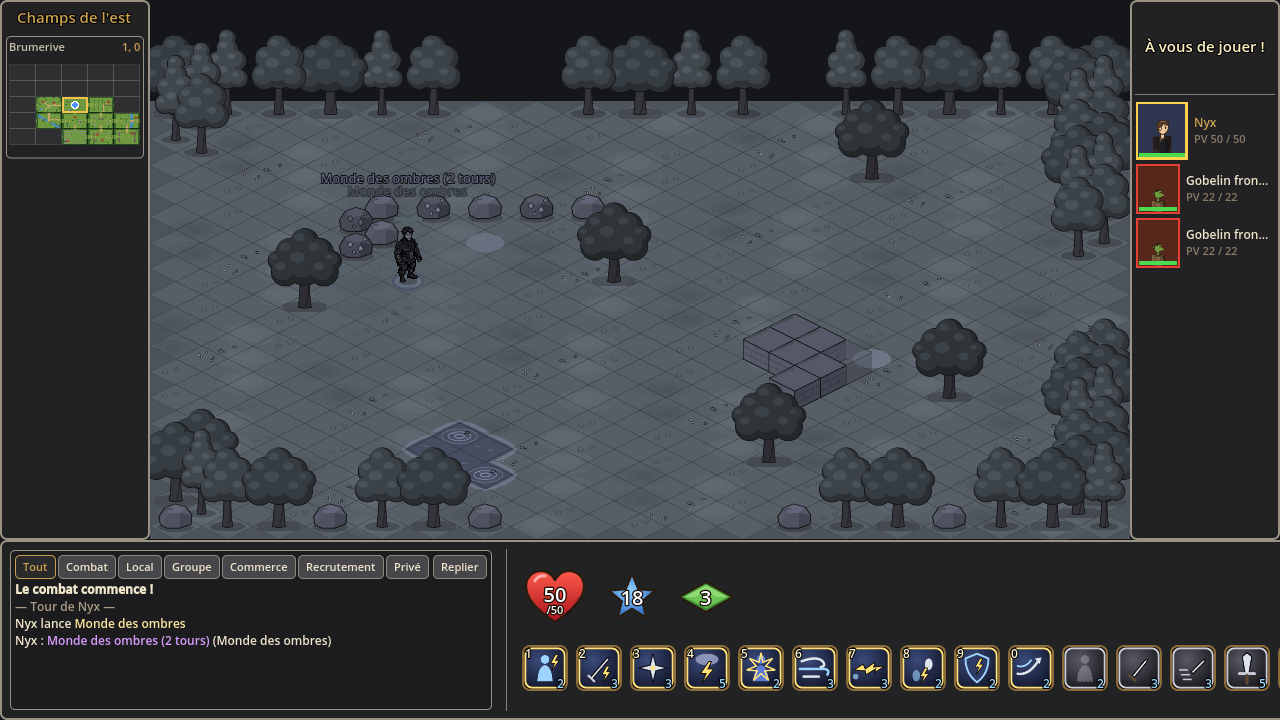
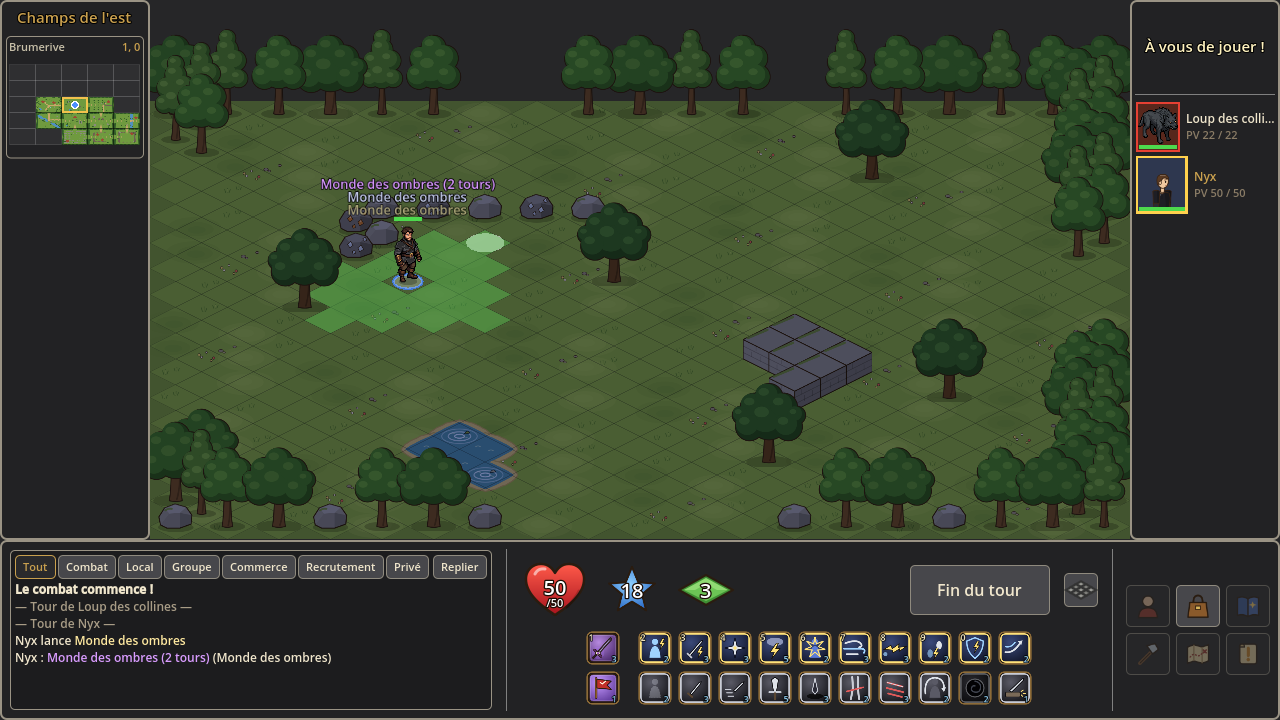
Monde des ombres : filtre sombre sur la carte seulement (sol et décor), plus sur les combattants ni les sorts
Claude-Session: https://claude.ai/code/session_01Jp475UgHSp8Q1GCwndDZhf

diff --git a/CLAUDE.md b/CLAUDE.md
@@ -255,7 +255,7 @@ Dernière session (retours de la passe de l'auteur) :
   de classe *Coup en traître* (champ `passif` des Voies, débloqué à Apprenti, `GameData.class_passive`, `Fighter.passives`) ;
   images rémanentes (`Combat.images`, effets `image` / `court_circuit`, zone `ligne`), invisibilité (`Fighter.is_invisible`,
   `last_seen`, `Combat.hunt_cells` pour l'IA), armes d'obscurité (`arme_ombre`, `marked_by`), *Dans le dos*, Monde des ombres
-  (`Fighter.shadow`, `Combat.dimension`, `_cross`, filtre `MapView._update_shadow_filter`) ; protocole v19. Toutes les
+  (`Fighter.shadow`, `Combat.dimension`, `_cross`, filtre `MapView._scenery_tint` sur la carte seulement) ; protocole v19. Toutes les
   classes à 50 PV et 100 d'initiative (demande de l'auteur). Valeurs des rangs provisoires ; captures `docs/captures/ombre/`.
 - **Chronomancien, Voie Impie** (29/10/2026, demande de l'auteur, GDD § 4.3) : 5e Voie de l'alpha 1,
   effets `horloge` / `decalage_horaire` (`Combat.CLOCK_OFFSETS`, `clock_destination`, échange de

diff --git a/docs/design/classes/ombre.md b/docs/design/classes/ombre.md
@@ -57,7 +57,7 @@ Dimension parallèle sur la même carte : seules les entités d'une même dimens
 sans Ombre dedans, tout le monde sort au bout d'un tour. Entrée ou sortie sur une case occupée : échange de place
 (l'autre est aspiré) ; à la sortie, retour impossible 2 tours (1 pour une Ombre). Vu de dehors, une ombre projetée
 quand une entité de la dimension lance un sort ; vu de dedans, lueurs anonymes sur les cases occupées dehors,
-filtre sombre sur l'écran. Glyphes, pièges et images restent dans la dimension de leur lanceur ; l'arme d'obscurité
+filtre sombre sur la carte seulement (sol et décor, pas les combattants ni les sorts). Glyphes, pièges et images restent dans la dimension de leur lanceur ; l'arme d'obscurité
 suit sa cible. Le combat ne finit que quand tout un camp est mort, ombres comprises.
 
 ## Plus tard
